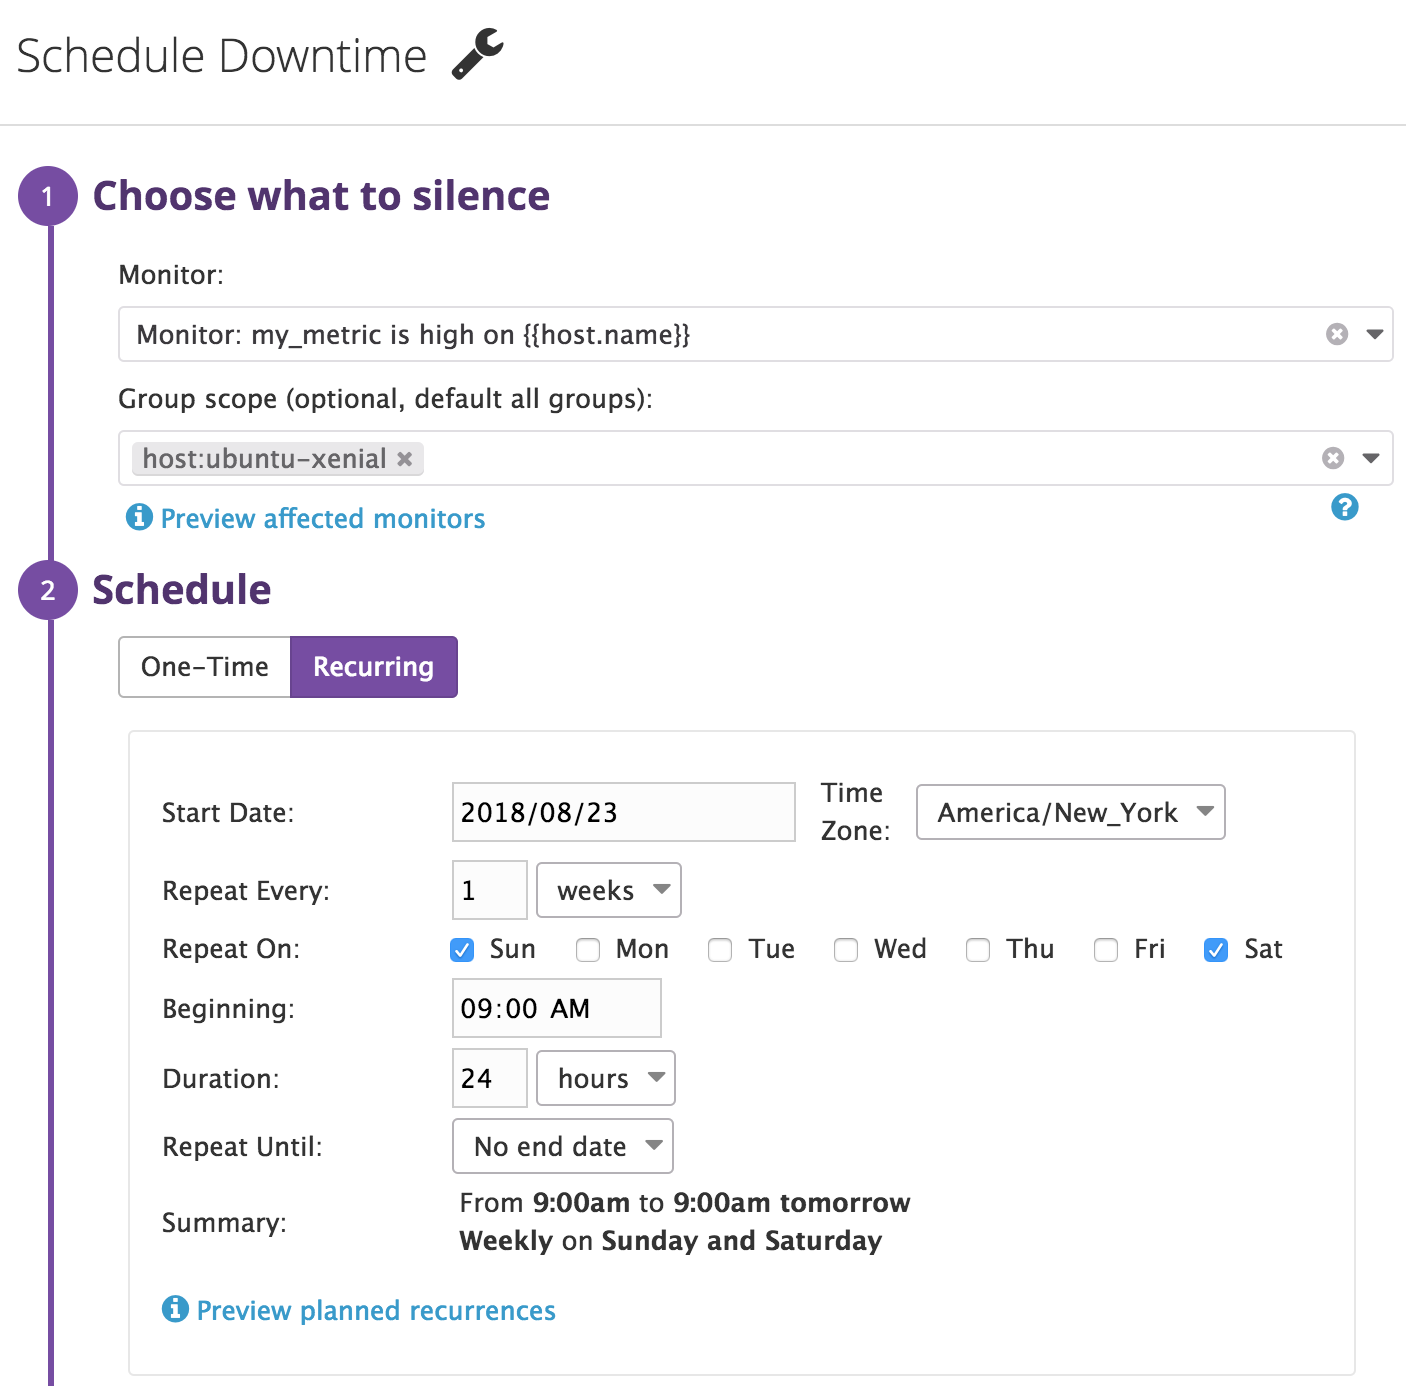
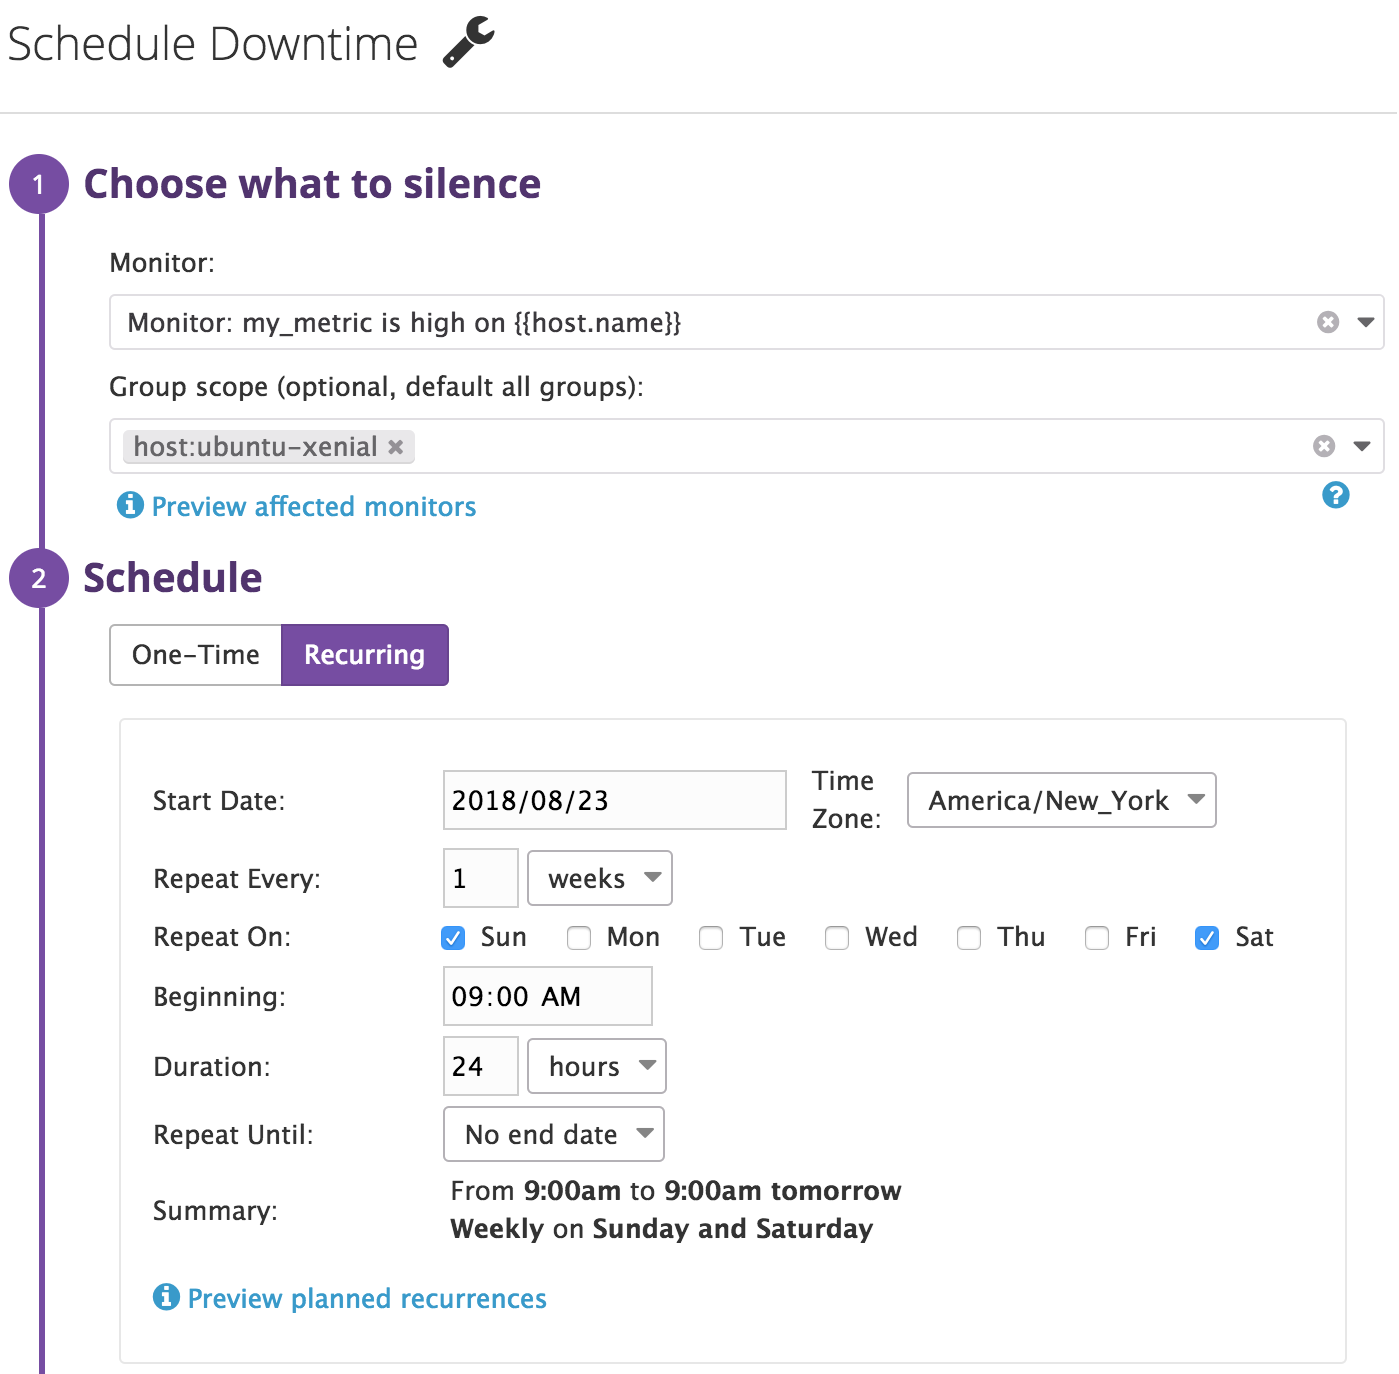
Image border touchup, Section 1 pt5.

diff --git a/datadog/answers.md b/datadog/answers.md
@@ -577,7 +577,7 @@ For the weekend, Saturday morning will already be muted through 9:00 AM EST due 
 > - *Make sure that your email is notified when you schedule the downtime and take a screenshot of that notification.*
 ---
 ## Send an email when the downtime is scheduled and provide a screenshot
-These produced the following emails:
+These produced the emails:
 
 ![Alert Mute Email: Weekday](images/3_3_WeekdayEmail.png)
 ![Alert Mute Email: Weekend](images/3_3_WeekendEmail.png)
